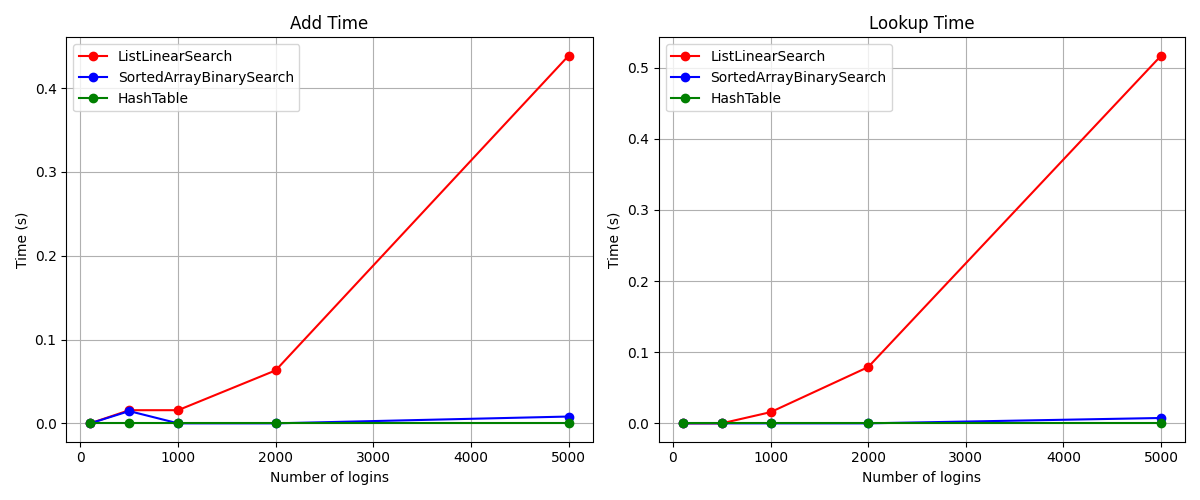
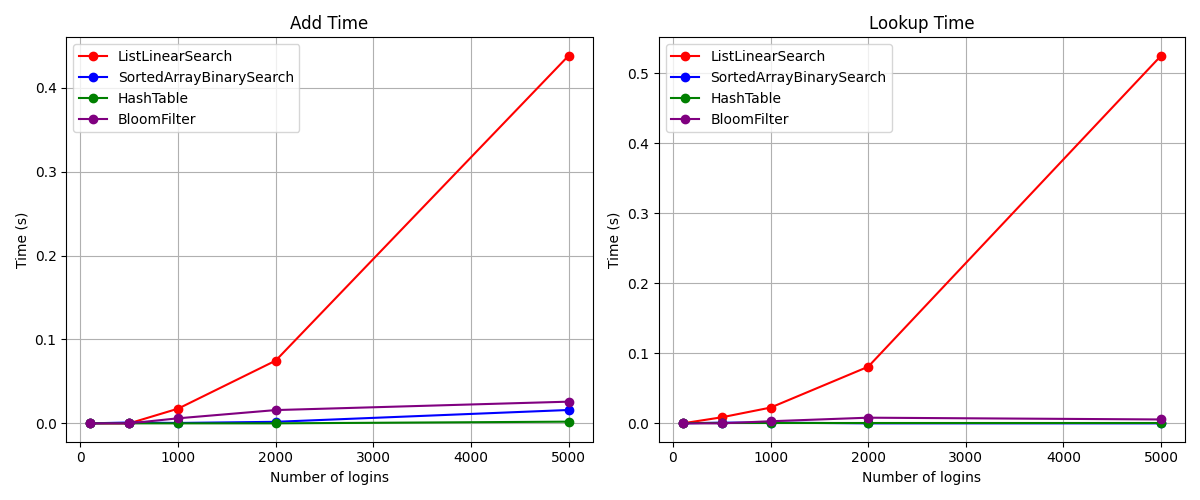
add bloom filter functionality

diff --git a/login_checker.py b/login_checker.py
@@ -1,5 +1,6 @@
 import time
 import matplotlib.pyplot as plt
+from pybloom_live import BloomFilter
 
 class LoginChecker:
     def __init__(self):
@@ -86,6 +87,30 @@ class HashTableChecker(LoginChecker):
         self.comparisons += 1
         return name in self.logins
 
+class BloomFilterChecker(LoginChecker):
+    def __init__(self, capacity=1000000, error_rate=0.001):
+        super().__init__()
+        self.bloom = BloomFilter(capacity=capacity, error_rate=error_rate)
+        self.logins = set()
+
+    def add_login(self, name):
+        self.comparisons += 1
+        if name in self.bloom:
+            self.comparisons += 1
+            if name in self.logins:
+                return False
+        self.bloom.add(name)
+        self.logins.add(name)
+        self.login_count += 1
+        return True
+
+    def check_exists(self, name):
+        self.comparisons += 1
+        if name not in self.bloom:
+            return False
+        self.comparisons += 1
+        return name in self.logins
+
 def load_logins_from_file(filename):
     with open(filename, 'r') as f:
         return [line.strip() for line in f if line.strip()]
@@ -137,23 +162,18 @@ def print_results(results):
     print(f"Lookup comparisons: {results['lookup_comparisons']:,} (avg {results['lookup_comparisons']/results['num_lookups']:.1f})")
 
 def main():
-    # Test for login dataset sample sizes of 100, 1000, 10k, 100k, 1m, 6.5m 
-    test_sizes = [100, 1000, 10000, 100000, 1000000, 6500000]
+    test_sizes = [100, 500, 1000, 2000, 5000]
     all_results = []
     login_file = 'logins.txt'
 
     for size in test_sizes:
-        for checker_class in [ListLinearSearchChecker, SortedArrayBinarySearchChecker, HashTableChecker]:
-            # Skip linear searching for anything over 10,000 because it just simply takes way too long
-            if checker_class == ListLinearSearchChecker and size > 10000:
-                pass
+        for checker_class in [ListLinearSearchChecker, SortedArrayBinarySearchChecker, HashTableChecker, BloomFilterChecker]:
             results = run_test(checker_class, size, size, login_file=login_file)
             all_results.append(results)
             print_results(results)
 
-    # Plot results
-    algorithms = ['ListLinearSearchChecker', 'SortedArrayBinarySearchChecker', 'HashTableChecker']
-    colors = ['red', 'blue', 'green']
+    algorithms = ['ListLinearSearchChecker', 'SortedArrayBinarySearchChecker', 'HashTableChecker', 'BloomFilterChecker']
+    colors = ['red', 'blue', 'green', 'purple']
 
     fig, (ax1, ax2) = plt.subplots(1, 2, figsize=(12, 5))
 
